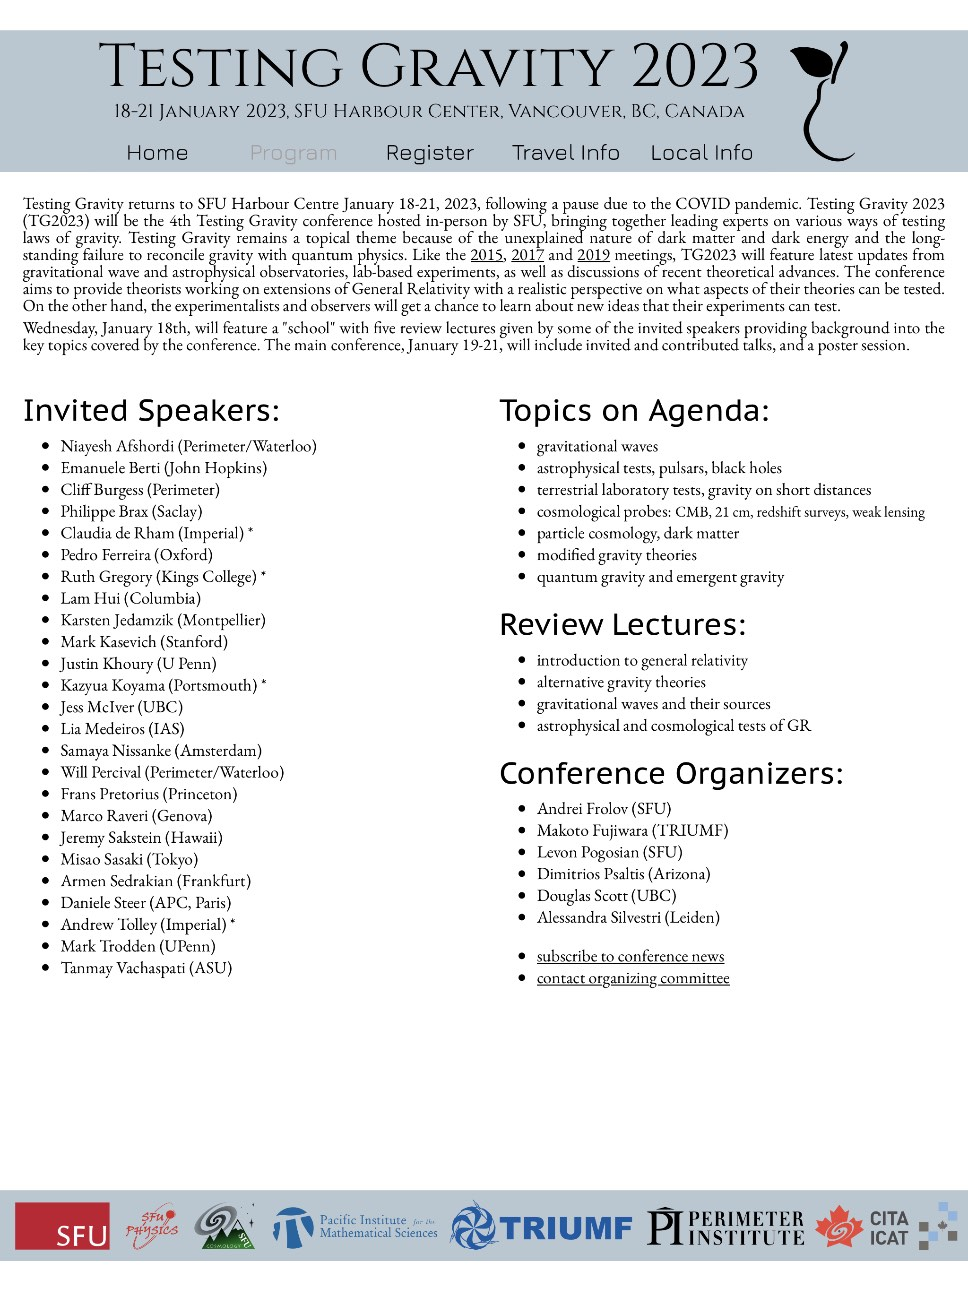
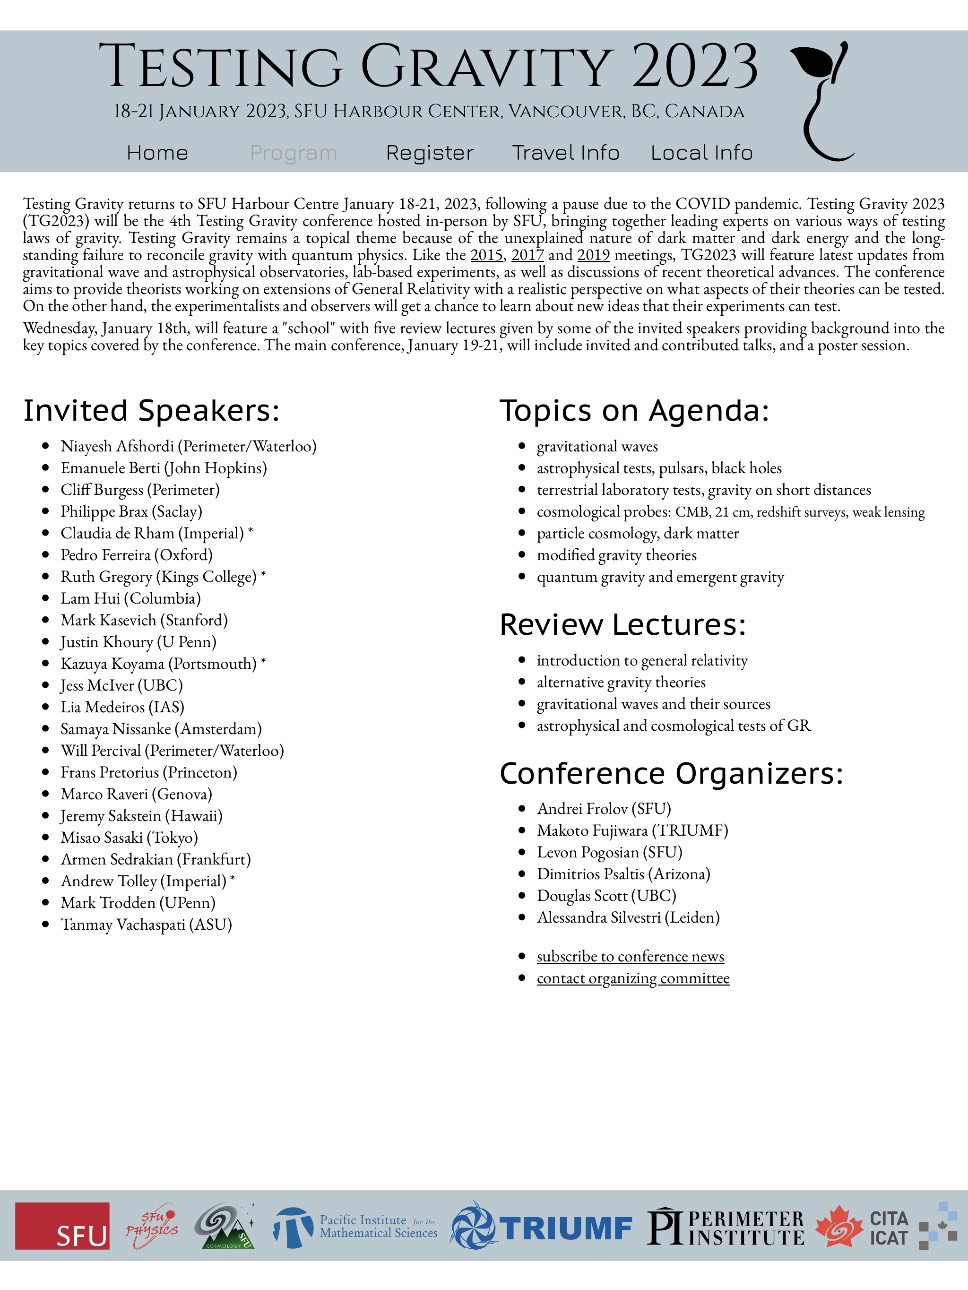
Removed cancelled speakers, fixed spelling of Kazuya

Changed region(s): [[0.062, 0.4651, 0.2789, 0.7752]]

diff --git a/content/speakers.html b/content/speakers.html
@@ -17,10 +17,9 @@ ul { margin-top: 0.3em !important; }
 <li>Pedro Ferreira (Oxford)
 <li>Ruth Gregory (Kings College) *
 <li>Lam Hui (Columbia) 
-<li>Karsten Jedamzik (Montpellier) 
 <li>Mark Kasevich (Stanford) 
 <li>Justin Khoury (U Penn) 
-<li>Kazyua Koyama (Portsmouth) *
+<li>Kazuya Koyama (Portsmouth) *
 <li>Jess McIver (UBC)
 <li>Lia Medeiros (IAS) 
 <li>Samaya Nissanke (Amsterdam) 
@@ -30,7 +29,6 @@ ul { margin-top: 0.3em !important; }
 <li>Jeremy Sakstein (Hawaii) 
 <li>Misao Sasaki (Tokyo) 
 <li>Armen Sedrakian (Frankfurt) 
-<li>Daniele Steer (APC, Paris)
 <li>Andrew Tolley (Imperial) *
 <li>Mark Trodden (UPenn) 
 <li>Tanmay Vachaspati (ASU)
